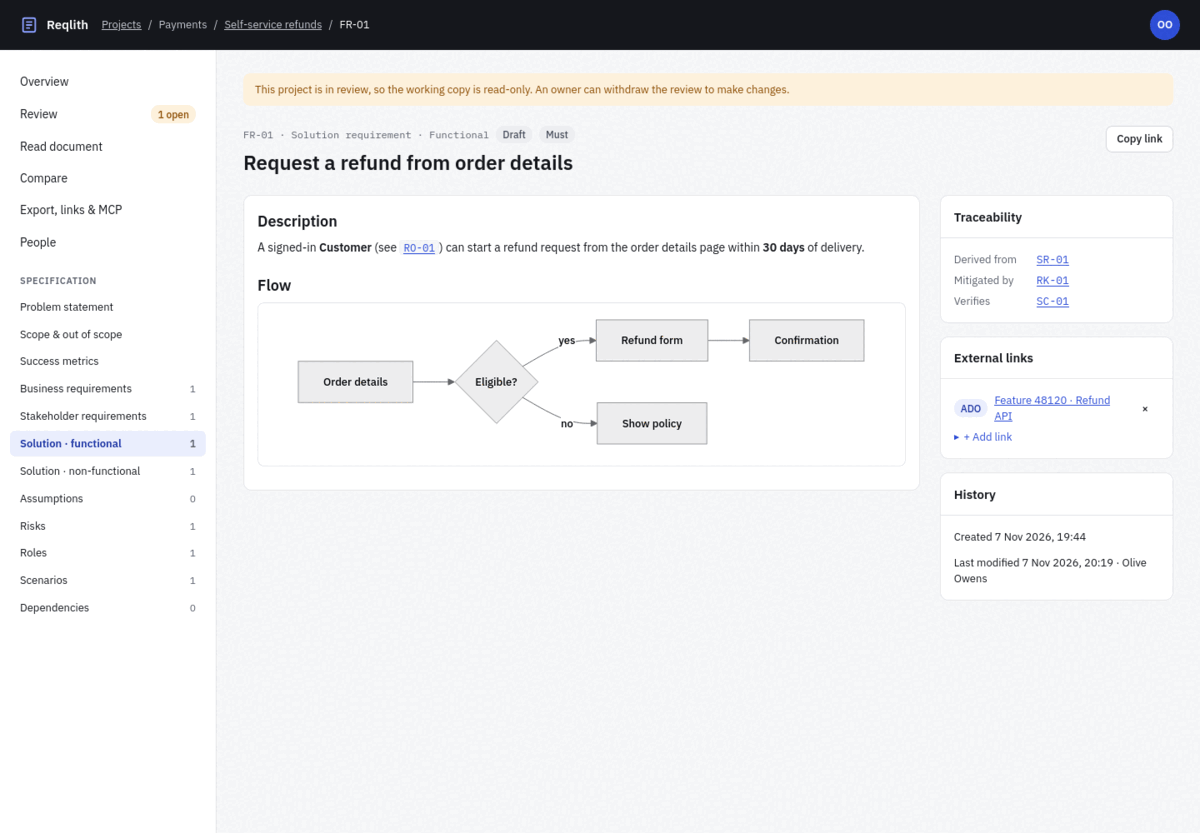
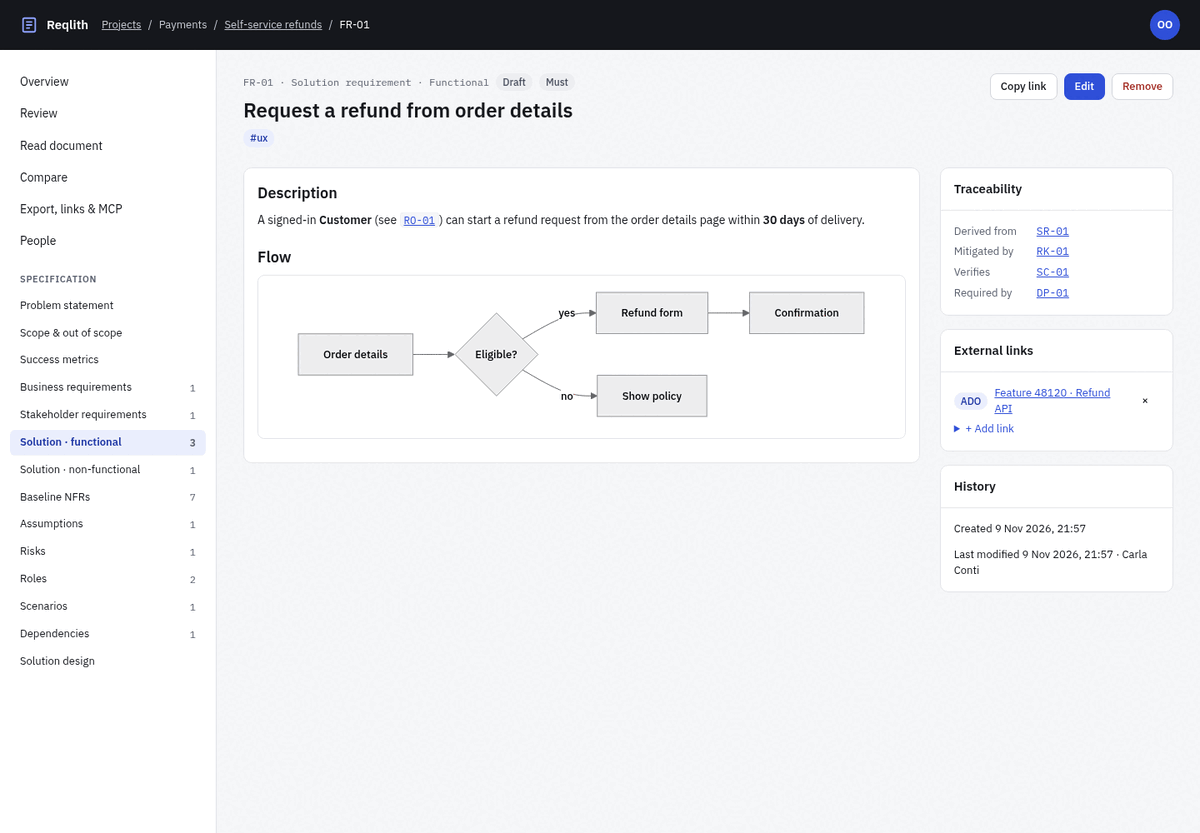
README: screenshots from sample projects, incl. projects home and baseline
Recaptured from four sample projects seeded through the app as the test users:
overview and requirement in the usual "Draft after v1" state, review and
compare on an open v2-rc1 review, plus the projects home page and the NFR
baseline.

diff --git a/README.md b/README.md
@@ -85,9 +85,13 @@ specification; development agents read exactly the version that was approved, th
 |---|---|
 | ![Review](docs/images/review.png) | ![Compare](docs/images/compare.png) |
 
-| Requirement with diagram, traceability and external links |
+| Requirement with diagram, traceability and external links | Projects and what needs your attention |
+|---|---|
+| ![Requirement](docs/images/element.png) | ![Projects](docs/images/home.png) |
+
+| Non-functional requirements baseline, inherited by every project |
 |---|
-| ![Requirement](docs/images/element.png) |
+| ![Baseline](docs/images/baseline.png) |
 
 ## Architecture
 
